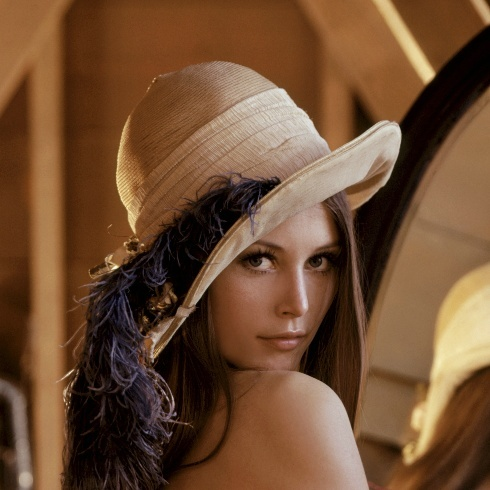
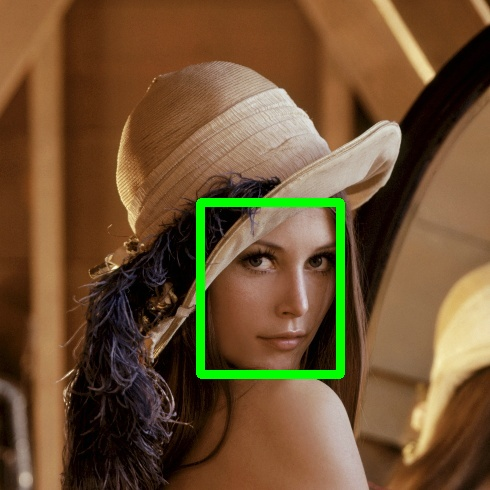
labeling the a number plate image

Changed region(s): [[0.398, 0.398, 0.7041, 0.7959]]

diff --git a/assignment.py b/assignment.py
@@ -1,0 +1,54 @@
+import cv2
+
+# Load the image
+image = cv2.imread('assignment-001-given.jpg')
+
+# Function to overlay text with background
+def overlay_text_with_background(
+    image, text, position, font, font_scale, font_thickness, text_color, bg_color, opacity, padding=10
+):
+    overlay = image.copy()
+    text_size, baseline = cv2.getTextSize(text, font, font_scale, font_thickness)
+    text_width, text_height = text_size
+
+    # Calculate rectangle coordinates
+    rect_x1 = position[0] - padding
+    rect_y1 = position[1] - text_height - padding
+    rect_x2 = position[0] + text_width + padding
+    rect_y2 = position[1] + baseline + padding
+
+    # Draw semi-transparent rectangle
+    cv2.rectangle(overlay, (rect_x1, rect_y1), (rect_x2, rect_y2), bg_color, -1)
+    cv2.addWeighted(overlay, opacity, image, 1 - opacity, 0, image)
+
+    # Draw the text on top
+    cv2.putText(image, text, position, font, font_scale, text_color, font_thickness)
+
+
+# Text and rectangle details
+text = 'RAH972U'
+font = cv2.FONT_HERSHEY_SIMPLEX
+font_scale = 2.5
+font_thickness = 5
+text_color = (0, 255, 0)  # Green
+bg_color = (0, 0, 0)  # Black
+opacity = 0.5
+padding = 18 
+
+large_rect_top_left = (900, 180)  # Top-left corner of the large rectangle
+text_x = large_rect_top_left[0]  # Align horizontally with the large rectangle
+text_y = large_rect_top_left[1] - 30  
+
+# Draw text with a background rectangle
+overlay_text_with_background(
+    image, text, (text_x, text_y), font, font_scale, font_thickness, text_color, bg_color, opacity, padding
+)
+
+# Draw the large rectangle
+cv2.rectangle(image, (260, 197), (985, 950), (0, 255, 0), 9)
+
+# Display and save the result
+cv2.imshow('Image Assignment', image)
+cv2.waitKey(0)
+cv2.imwrite('assignment-001-result.jpg', image)
+cv2.destroyAllWindows()

diff --git a/draw_rectangle.py b/draw_rectangle.py
@@ -1,15 +1,9 @@
-import cv2  # Import OpenCV library
+import cv2  
 
-# Read the image 'lena.jpg'
 image = cv2.imread('lena.jpg')
 
-# Draw a green rectangle on the image
-# Rectangle coordinates: top-left (750, 750), bottom-right (1500, 1500)
-# Color: Green (BGR format: (0, 255, 0)), Thickness: 8 pixels
+cv2.rectangle(image, (200, 202), (340, 374), (0, 255, 0), 8)
 
-cv2.rectangle(image, (750, 750), (1500, 1500), (0, 255, 0), 8)
-
-# Display the image in a new window named 'Image'
 cv2.imshow('Image', image)
 
 # Wait indefinitely until a key is pressed

diff --git a/draw_circle.py b/draw_circle.py
@@ -1,0 +1,8 @@
+import cv2
+img=cv2.imread("lena.jpg")
+cv2.circle(img,(300,300),100,(0,0,255),4)
+cv2
+cv2.imshow("image show",img)
+cv2.waitKey(0)
+cv2.imwrite("lena_circle.png",img)
+cv2.destroyAllWindows()
